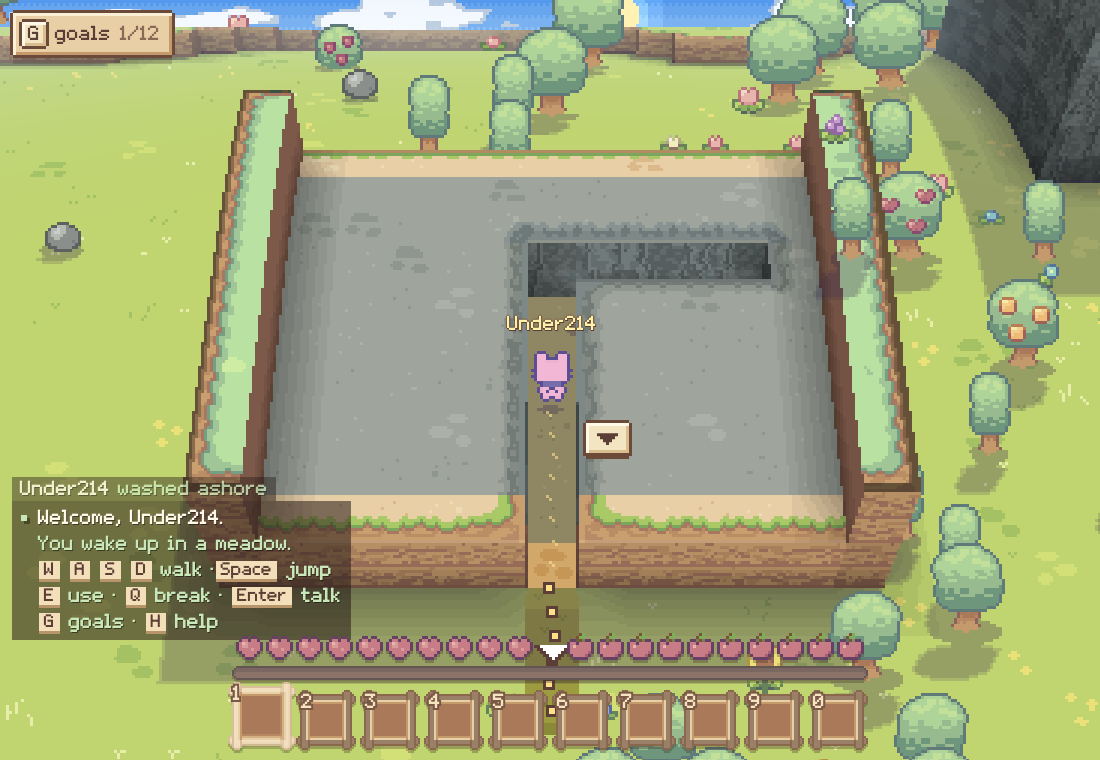
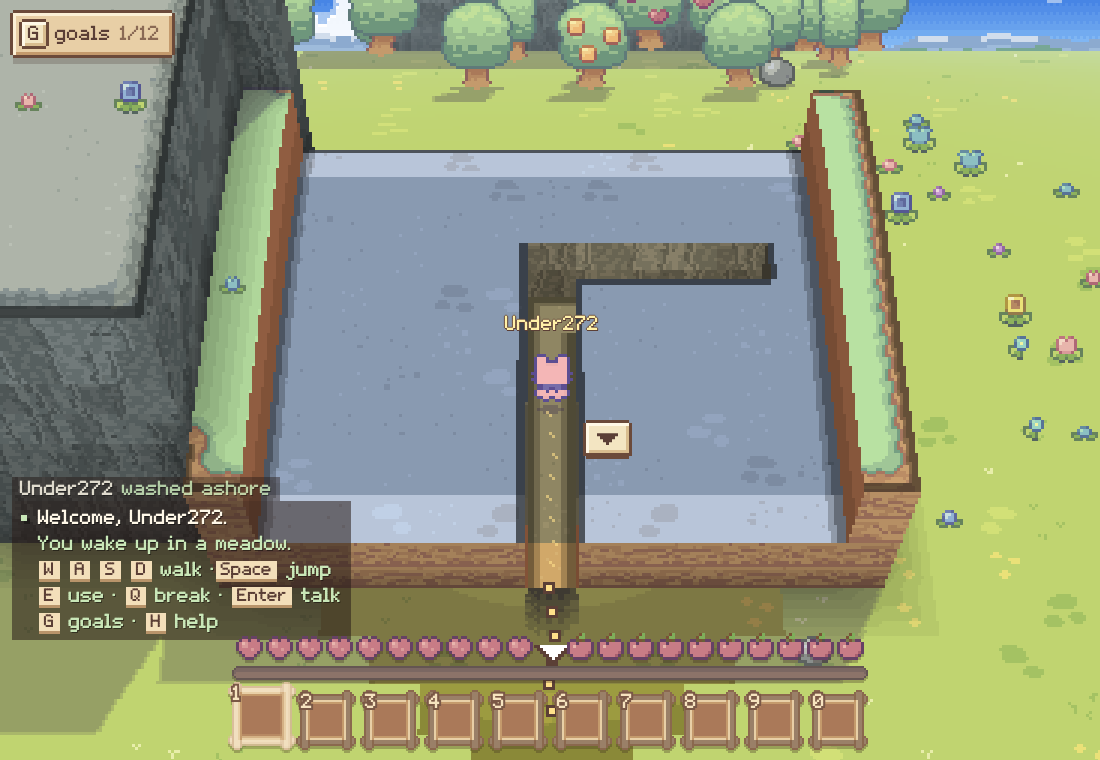
docs(mockups): under the land, second try: the real cut, no window over it
Claude-Session: https://claude.ai/code/session_011zaXs3U6jVbMzL2p4BLhLN

diff --git a/index.html b/index.html
@@ -40,10 +40,11 @@ figure { min-width:0; } img { max-width:100%; } .grid { grid-template-columns:re
 <div class="ba"><figure><span class="tag b">Before</span><img src="grip/earth_before.webp" alt="Hill and pit, today"></figure><figure><span class="tag a">After</span><img src="grip/earth_after.webp" alt="Hill and pit, the generator's stone"></figure></div>
 </div>
 <div class="pair" id="under">
-<h2>Under the land: the real blocks round you</h2>
-<p>The owner: "underground view should show the real blocks around the player". Today, in a tunnel the land over you is a dark window cut in one flat paint. Here, covered by the land, the cells over your head are not drawn 5 tiles round you and 11 south of you (the eye looks from the south): the walls of your way are the land's own blocks, earth or stone, each drawn as any block is; what grew on top of the cut land is not drawn. Only the picture is cut: the light, the sun, the eye are as before. A tunnel through a mountain (stone), then through a hill four high (earth over a stone core). <b>Known: the edge of the cut through an earth hill still shows a strip of grass; it will be bare earth.</b></p>
+<h2>Under the land, the real blocks round you (second try)</h2>
+<p>The owner: "The 3d voxel style isn't respected ... The wall inside underground looks bad". The first try had the old x-ray window still painting over the cut: dithered edges and flat dark strips on the walls. Now the land is really cut (5 tiles round you, 11 south, at your head) and the window paints nothing over it. Every wall of your way is the land's own block, lit by your lantern; the cut's tops are the blocks under the hill, in its dim cold light; nothing smeared. A tunnel through a mountain, through a hill four high, and up close.</p>
 <div class="ba"><figure><span class="tag b">Before</span><img src="grip/under_stone_before.webp" alt="Tunnel in a mountain, today"></figure><figure><span class="tag a">After</span><img src="grip/under_stone_after.webp" alt="Tunnel in a mountain, the real blocks"></figure></div>
 <div class="ba" style="margin-top:12px"><figure><span class="tag b">Before</span><img src="grip/under_earth_before.webp" alt="Tunnel in a hill, today"></figure><figure><span class="tag a">After</span><img src="grip/under_earth_after.webp" alt="Tunnel in a hill, the real blocks"></figure></div>
+<div class="wide"><img src="grip/under_zoom_after.webp" alt="Up close: the tunnel's walls and the cut's tops"></div>
 </div>
 <div id="sky">
 <h1>The sky: which one? (picked: 3, built)</h1>
